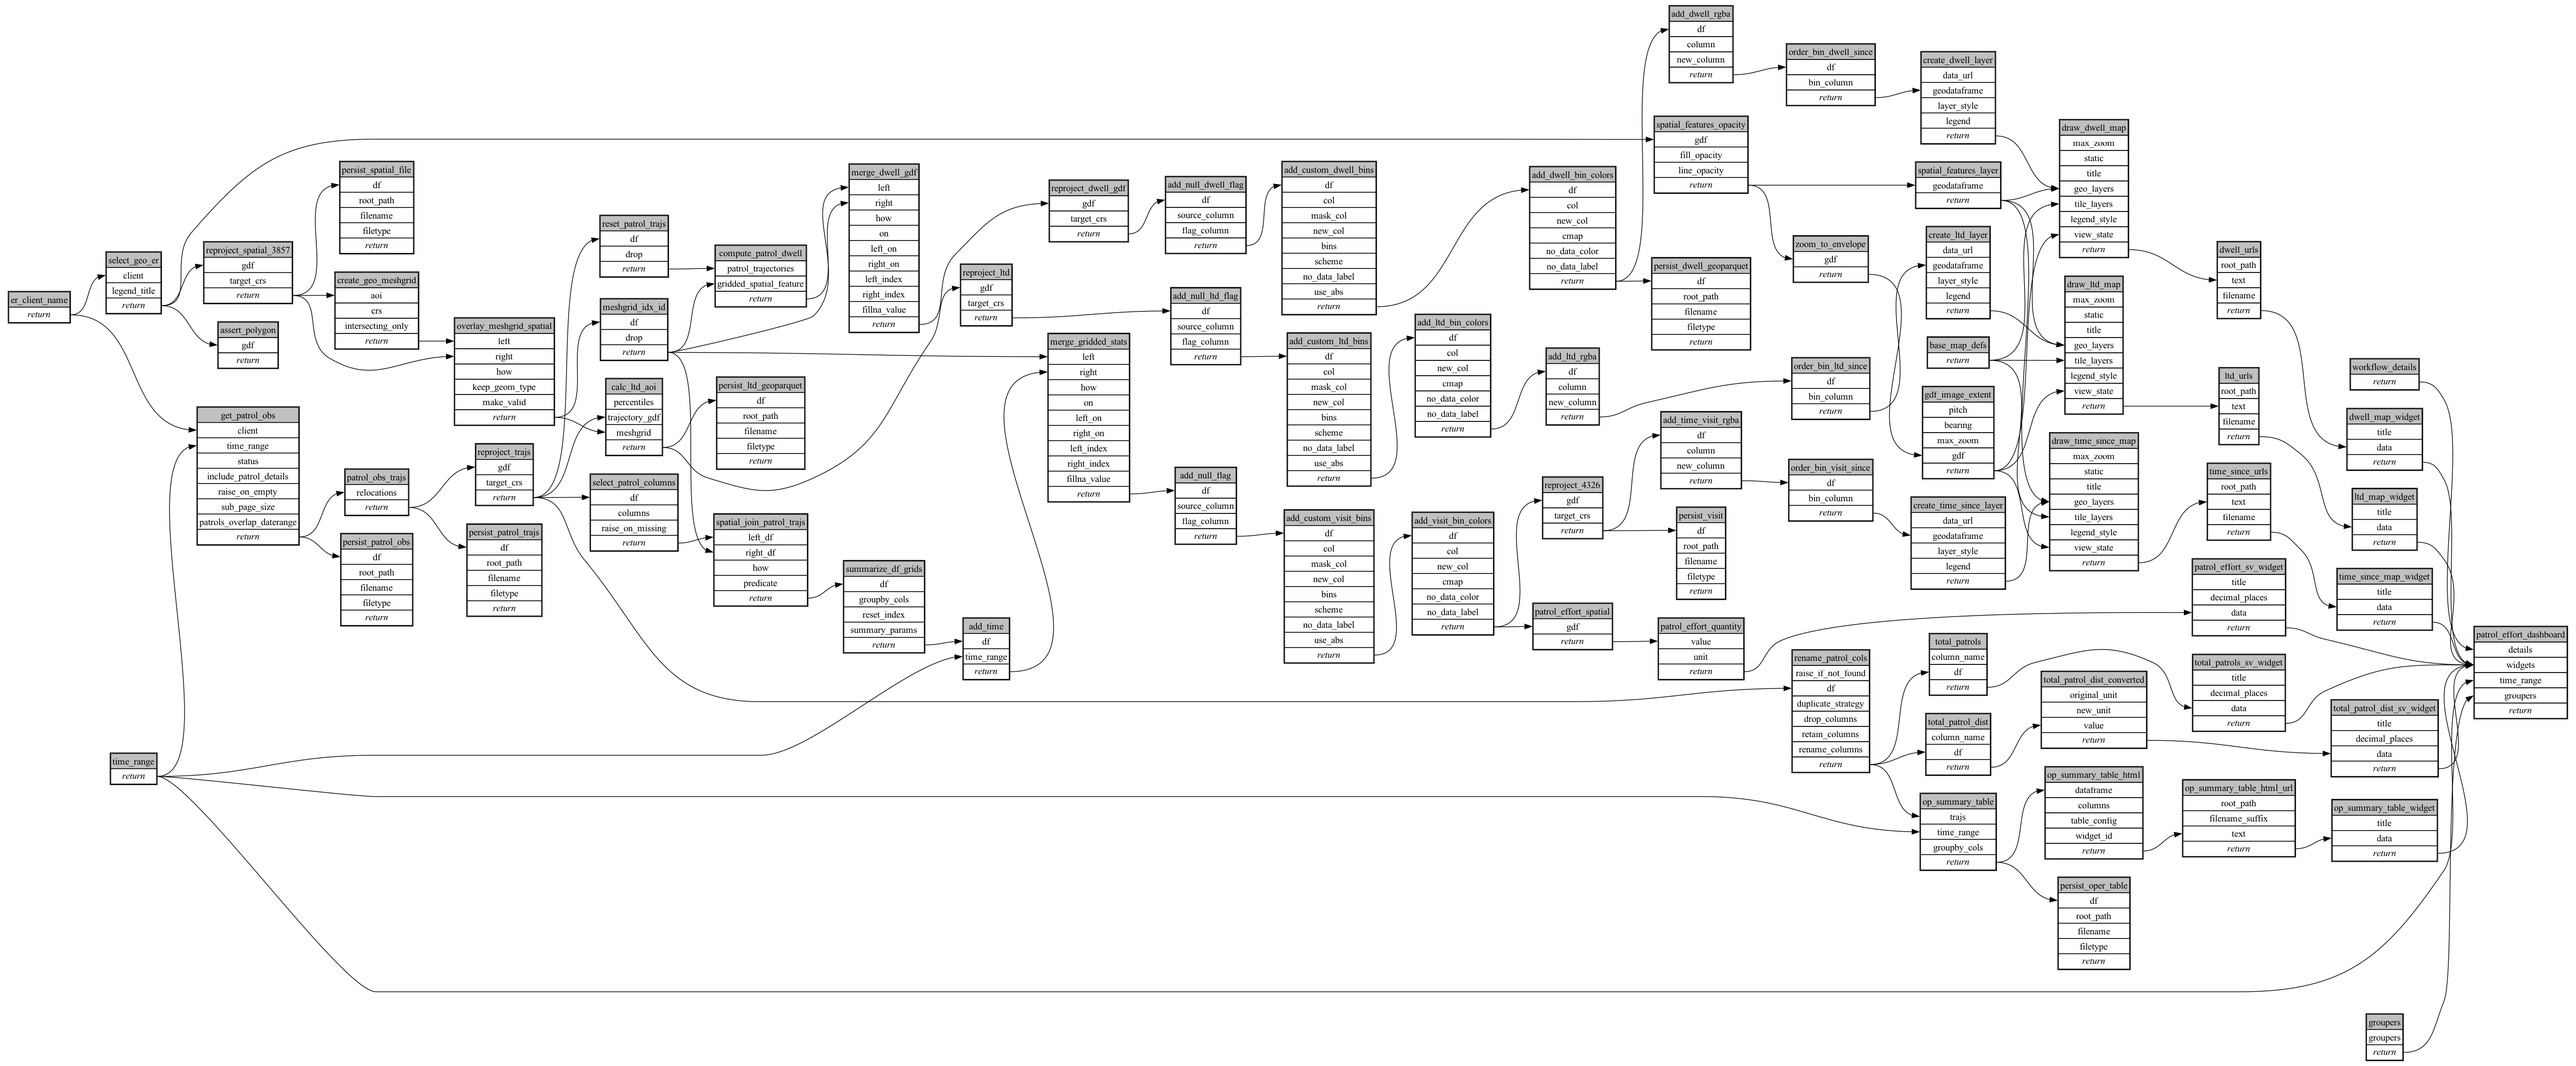
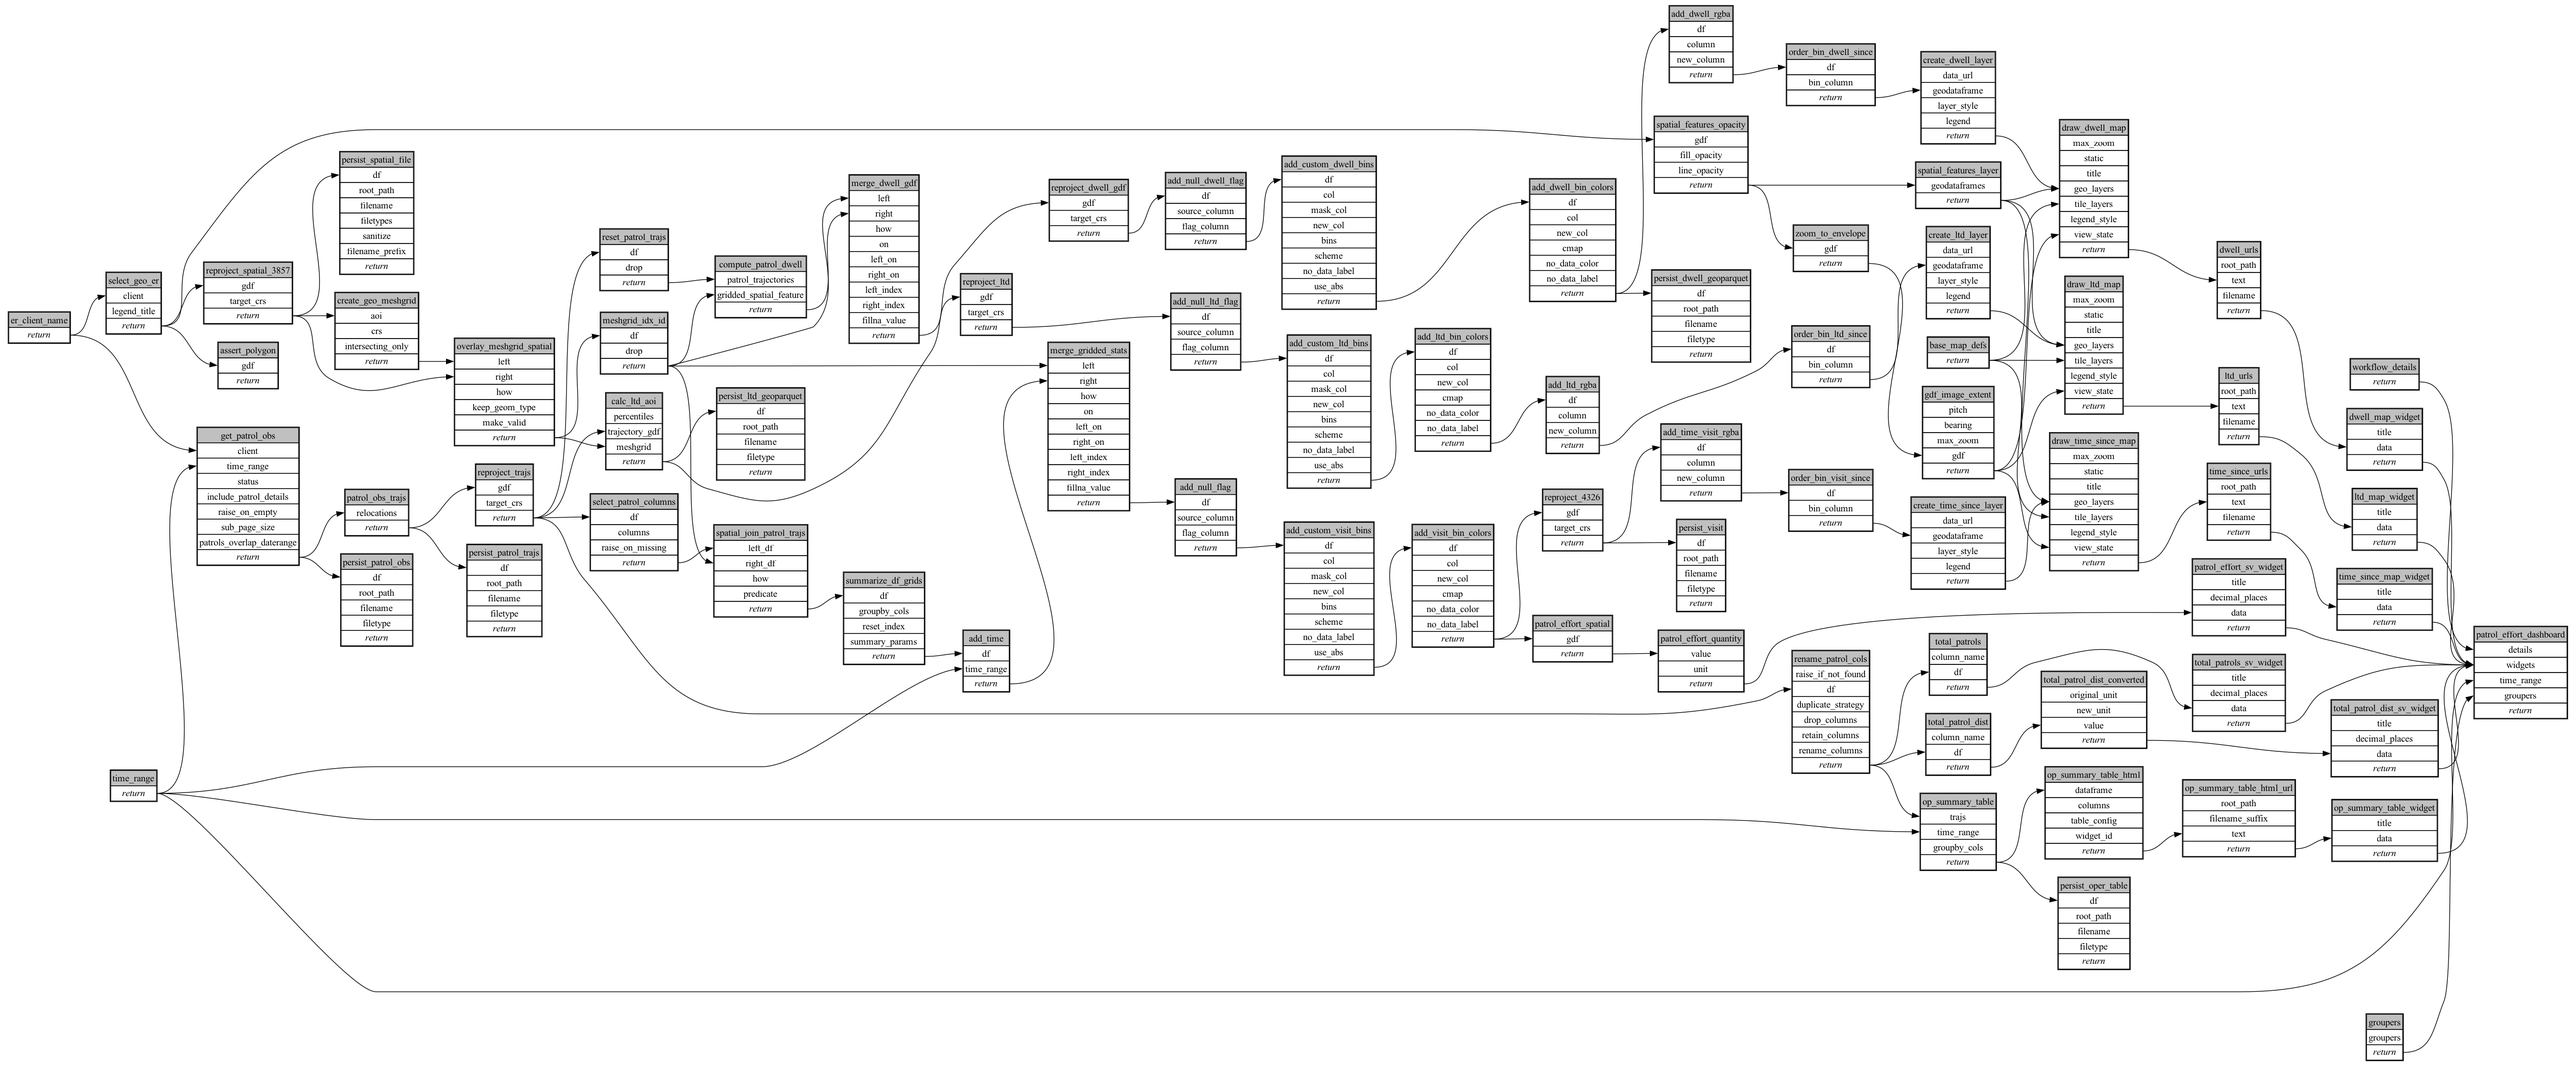
Update spec

diff --git a/workflows/patrol_field_effort/ecoscope-workflows-patrol-field-effort-workflow/ecoscope_workflows_patrol_field_effort_workflow/dags/run_sequential_mock_io.py b/workflows/patrol_field_effort/ecoscope-workflows-patrol-field-effort-workflow/ecoscope_workflows_patrol_field_effort_workflow/dags/run_sequential_mock_io.py
@@ -63,6 +63,9 @@ from ecoscope.platform.tasks.results import draw_table as draw_table
 from ecoscope.platform.tasks.results import gather_dashboard as gather_dashboard
 from ecoscope.platform.tasks.transformation import map_columns as map_columns
 from ecoscope.platform.tasks.transformation import with_unit as with_unit
+from ecoscope_workflows_ext_custom.tasks.io import (
+    persist_df_wrapper as persist_df_wrapper_1,
+)
 from ecoscope_workflows_ext_custom.tasks.results import (
     create_geojson_layer as create_geojson_layer_1,
 )
@@ -326,7 +329,7 @@ def main(params: dict[str, Any], validate_params_schema: bool = True):
     )
 
     persist_spatial_file = (
-        task(persist_df)
+        task(persist_df_wrapper_1)
         .validate()
         .set_task_instance_id("persist_spatial_file")
         .handle_errors()
@@ -342,7 +345,9 @@ def main(params: dict[str, Any], validate_params_schema: bool = True):
             df=reproject_spatial_3857,
             root_path=os.environ["ECOSCOPE_WORKFLOWS_RESULTS"],
             filename="er_spatial_file",
-            filetype="geoparquet",
+            filetypes=["geoparquet"],
+            sanitize=True,
+            filename_prefix="earthranger",
             **(params.get("persist_spatial_file") or {}),
         )
         .call()
@@ -496,7 +501,7 @@ def main(params: dict[str, Any], validate_params_schema: bool = True):
         )
         .partial(
             df=spatial_join_patrol_trajs,
-            groupby_cols=["cell_id"],
+            groupby_cols=["index"],
             reset_index=True,
             summary_params=[
                 {
@@ -559,7 +564,7 @@ def main(params: dict[str, Any], validate_params_schema: bool = True):
             left=meshgrid_idx_id,
             right=add_time,
             how="left",
-            on="cell_id",
+            on="index",
             left_on=None,
             right_on=None,
             left_index=False,
@@ -682,7 +687,7 @@ def main(params: dict[str, Any], validate_params_schema: bool = True):
             df=reproject_4326,
             root_path=os.environ["ECOSCOPE_WORKFLOWS_RESULTS"],
             filename="days_since_patrol_visit",
-            filetype="geoparquet",
+            filetype="gpkg",
             **(params.get("persist_visit") or {}),
         )
         .call()
@@ -745,7 +750,7 @@ def main(params: dict[str, Any], validate_params_schema: bool = True):
             left=meshgrid_idx_id,
             right=compute_patrol_dwell,
             how="left",
-            on="cell_id",
+            on="index",
             left_on=None,
             right_on=None,
             left_index=False,
@@ -868,7 +873,7 @@ def main(params: dict[str, Any], validate_params_schema: bool = True):
             df=add_dwell_bin_colors,
             root_path=os.environ["ECOSCOPE_WORKFLOWS_RESULTS"],
             filename="time_spent_per_cell",
-            filetype="geoparquet",
+            filetype="gpkg",
             **(params.get("persist_dwell_geoparquet") or {}),
         )
         .call()
@@ -913,7 +918,7 @@ def main(params: dict[str, Any], validate_params_schema: bool = True):
             df=calc_ltd_aoi,
             root_path=os.environ["ECOSCOPE_WORKFLOWS_RESULTS"],
             filename="patrols_linear_time_density",
-            filetype="geoparquet",
+            filetype="gpkg",
             **(params.get("persist_ltd_geoparquet") or {}),
         )
         .call()
@@ -1107,7 +1112,7 @@ def main(params: dict[str, Any], validate_params_schema: bool = True):
             df=get_patrol_obs,
             root_path=os.environ["ECOSCOPE_WORKFLOWS_RESULTS"],
             filename="patrol_observations",
-            filetype="geoparquet",
+            filetype="gpkg",
             **(params.get("persist_patrol_obs") or {}),
         )
         .call()
@@ -1130,7 +1135,7 @@ def main(params: dict[str, Any], validate_params_schema: bool = True):
             df=patrol_obs_trajs,
             root_path=os.environ["ECOSCOPE_WORKFLOWS_RESULTS"],
             filename="patrol_trajectories",
-            filetype="geoparquet",
+            filetype="gpkg",
             **(params.get("persist_patrol_trajs") or {}),
         )
         .call()
@@ -1172,7 +1177,7 @@ def main(params: dict[str, Any], validate_params_schema: bool = True):
             unpack_depth=1,
         )
         .partial(
-            geodataframe=spatial_features_opacity,
+            geodataframes=[spatial_features_opacity],
             **(params.get("spatial_features_layer") or {}),
         )
         .call()

diff --git a/workflows/patrol_field_effort/ecoscope-workflows-patrol-field-effort-workflow/ecoscope_workflows_patrol_field_effort_workflow/dags/run_sequential.py b/workflows/patrol_field_effort/ecoscope-workflows-patrol-field-effort-workflow/ecoscope_workflows_patrol_field_effort_workflow/dags/run_sequential.py
@@ -42,6 +42,9 @@ from ecoscope.platform.tasks.skip import (
 from ecoscope.platform.tasks.skip import any_is_empty_df as any_is_empty_df
 from ecoscope.platform.tasks.transformation import map_columns as map_columns
 from ecoscope.platform.tasks.transformation import with_unit as with_unit
+from ecoscope_workflows_ext_custom.tasks.io import (
+    persist_df_wrapper as persist_df_wrapper_1,
+)
 from ecoscope_workflows_ext_custom.tasks.results import (
     create_geojson_layer as create_geojson_layer_1,
 )
@@ -313,7 +316,7 @@ def main(params: dict[str, Any], validate_params_schema: bool = True):
     )
 
     persist_spatial_file = (
-        task(persist_df)
+        task(persist_df_wrapper_1)
         .validate()
         .set_task_instance_id("persist_spatial_file")
         .handle_errors()
@@ -329,7 +332,9 @@ def main(params: dict[str, Any], validate_params_schema: bool = True):
             df=reproject_spatial_3857,
             root_path=os.environ["ECOSCOPE_WORKFLOWS_RESULTS"],
             filename="er_spatial_file",
-            filetype="geoparquet",
+            filetypes=["geoparquet"],
+            sanitize=True,
+            filename_prefix="earthranger",
             **(params.get("persist_spatial_file") or {}),
         )
         .call()
@@ -483,7 +488,7 @@ def main(params: dict[str, Any], validate_params_schema: bool = True):
         )
         .partial(
             df=spatial_join_patrol_trajs,
-            groupby_cols=["cell_id"],
+            groupby_cols=["index"],
             reset_index=True,
             summary_params=[
                 {
@@ -546,7 +551,7 @@ def main(params: dict[str, Any], validate_params_schema: bool = True):
             left=meshgrid_idx_id,
             right=add_time,
             how="left",
-            on="cell_id",
+            on="index",
             left_on=None,
             right_on=None,
             left_index=False,
@@ -669,7 +674,7 @@ def main(params: dict[str, Any], validate_params_schema: bool = True):
             df=reproject_4326,
             root_path=os.environ["ECOSCOPE_WORKFLOWS_RESULTS"],
             filename="days_since_patrol_visit",
-            filetype="geoparquet",
+            filetype="gpkg",
             **(params.get("persist_visit") or {}),
         )
         .call()
@@ -732,7 +737,7 @@ def main(params: dict[str, Any], validate_params_schema: bool = True):
             left=meshgrid_idx_id,
             right=compute_patrol_dwell,
             how="left",
-            on="cell_id",
+            on="index",
             left_on=None,
             right_on=None,
             left_index=False,
@@ -855,7 +860,7 @@ def main(params: dict[str, Any], validate_params_schema: bool = True):
             df=add_dwell_bin_colors,
             root_path=os.environ["ECOSCOPE_WORKFLOWS_RESULTS"],
             filename="time_spent_per_cell",
-            filetype="geoparquet",
+            filetype="gpkg",
             **(params.get("persist_dwell_geoparquet") or {}),
         )
         .call()
@@ -900,7 +905,7 @@ def main(params: dict[str, Any], validate_params_schema: bool = True):
             df=calc_ltd_aoi,
             root_path=os.environ["ECOSCOPE_WORKFLOWS_RESULTS"],
             filename="patrols_linear_time_density",
-            filetype="geoparquet",
+            filetype="gpkg",
             **(params.get("persist_ltd_geoparquet") or {}),
         )
         .call()
@@ -1094,7 +1099,7 @@ def main(params: dict[str, Any], validate_params_schema: bool = True):
             df=get_patrol_obs,
             root_path=os.environ["ECOSCOPE_WORKFLOWS_RESULTS"],
             filename="patrol_observations",
-            filetype="geoparquet",
+            filetype="gpkg",
             **(params.get("persist_patrol_obs") or {}),
         )
         .call()
@@ -1117,7 +1122,7 @@ def main(params: dict[str, Any], validate_params_schema: bool = True):
             df=patrol_obs_trajs,
             root_path=os.environ["ECOSCOPE_WORKFLOWS_RESULTS"],
             filename="patrol_trajectories",
-            filetype="geoparquet",
+            filetype="gpkg",
             **(params.get("persist_patrol_trajs") or {}),
         )
         .call()
@@ -1159,7 +1164,7 @@ def main(params: dict[str, Any], validate_params_schema: bool = True):
             unpack_depth=1,
         )
         .partial(
-            geodataframe=spatial_features_opacity,
+            geodataframes=[spatial_features_opacity],
             **(params.get("spatial_features_layer") or {}),
         )
         .call()

diff --git a/src/ecoscope-workflows-ext-mep/ecoscope_workflows_ext_mep/tasks/spatial_operations/_layers.py b/src/ecoscope-workflows-ext-mep/ecoscope_workflows_ext_mep/tasks/spatial_operations/_layers.py
@@ -10,6 +10,9 @@ from ecoscope.platform.annotations import (  # type: ignore[import-untyped]
 from ecoscope.platform.connections import (  # type: ignore[import-untyped]
     EarthRangerClient,
 )
+from ecoscope_workflows_ext_ste.tasks.spatial_operations._spatial_features import (  # type: ignore[import-untyped]
+    get_featureset,
+)
 from pydantic import BaseModel, ConfigDict, Field, model_validator
 from pydantic.json_schema import SkipJsonSchema
 from typing_extensions import Self

diff --git a/workflows/patrol_field_effort/ecoscope-workflows-patrol-field-effort-workflow/README.md b/workflows/patrol_field_effort/ecoscope-workflows-patrol-field-effort-workflow/README.md
@@ -5,8 +5,8 @@
 
 ```yaml
 # fingerprint:
-artifacts_sha256_basic: 435e03f05eecf49470de5deb8989e07abf031da77d7ff4425541bde5525d2b72
-artifacts_sha256_strict: e07862f7f748c0e55bd32945ae905be3649528949f9b8ef06b28d8c0b22eb7e1
+artifacts_sha256_basic: 59662e2a1e2cfc3d656365b547062b7188315e09ecf0d65eafc55b8bc91014bc
+artifacts_sha256_strict: f31b84bf27cb4cc14320644d41a408d41b5f03c15a13e74afc83a8287ce68b02
 installed_requirements:
 - channel: https://repo.prefix.dev/ecoscope-workflows/
   name: ecoscope-platform
@@ -19,7 +19,7 @@ installed_requirements:
   version: {version: ==0.0.0rc1}
 - channel: file:///tmp/ecoscope-workflows-custom/release/artifacts/
   name: ecoscope-workflows-ext-mep
-  version: {version: ==1.0.3.dev2+gd8932cd4.d20260910}
+  version: {version: ==1.0.3.dev3+gdc8b31454.d20260910}
 - channel: conda-forge
   name: pydeck
   version: {version: ==0.9.2}
@@ -27,7 +27,7 @@ installed_requirements:
   name: opentelemetry-sdk
   version: {version: ==1.44.0}
 params_sha256: b0de1b40e044175752b4b6cf5fb7a53bfa518dbae3ee8d8fdec4aa33dfb76b17
-spec_sha256: 9a65e4f98c9915885202aefb93687fde54fc584480dca2fce439ce73884a8cab
+spec_sha256: b71617b94f246be5551767d7bf8985e4bd4a85e2ad3705324f8fe8d4ee60fe98
 
 ```
 
